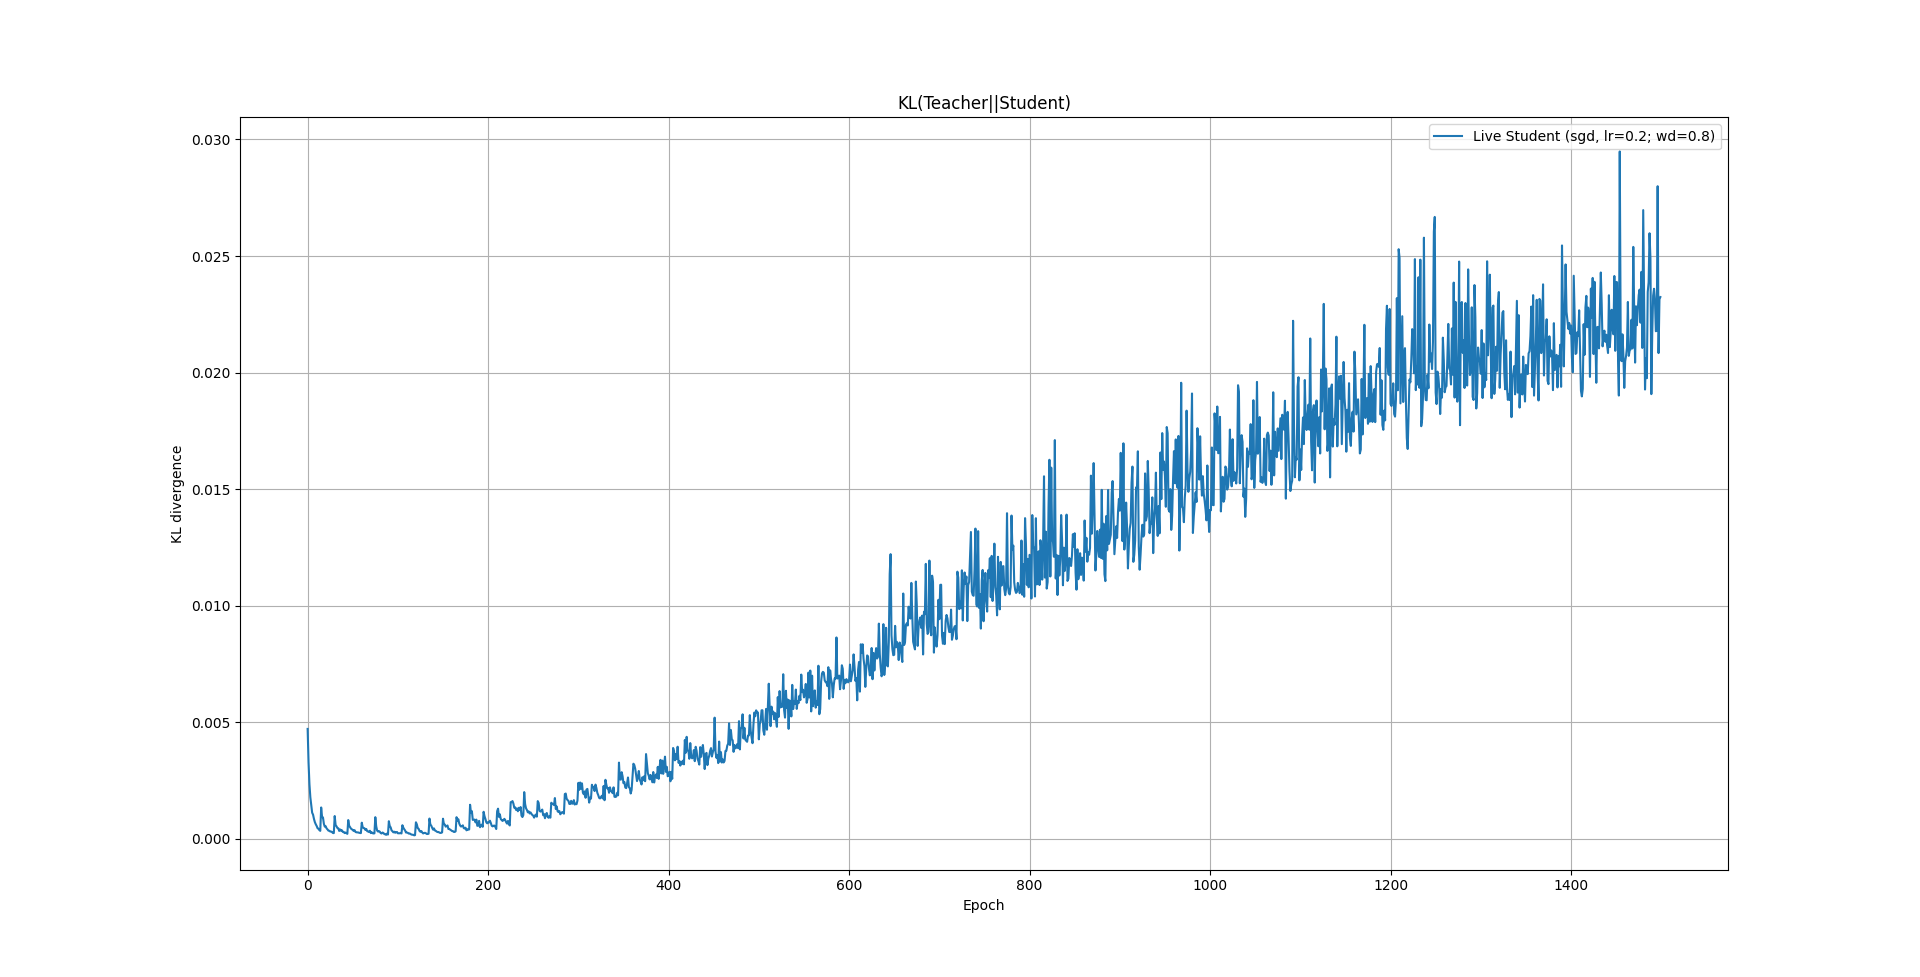
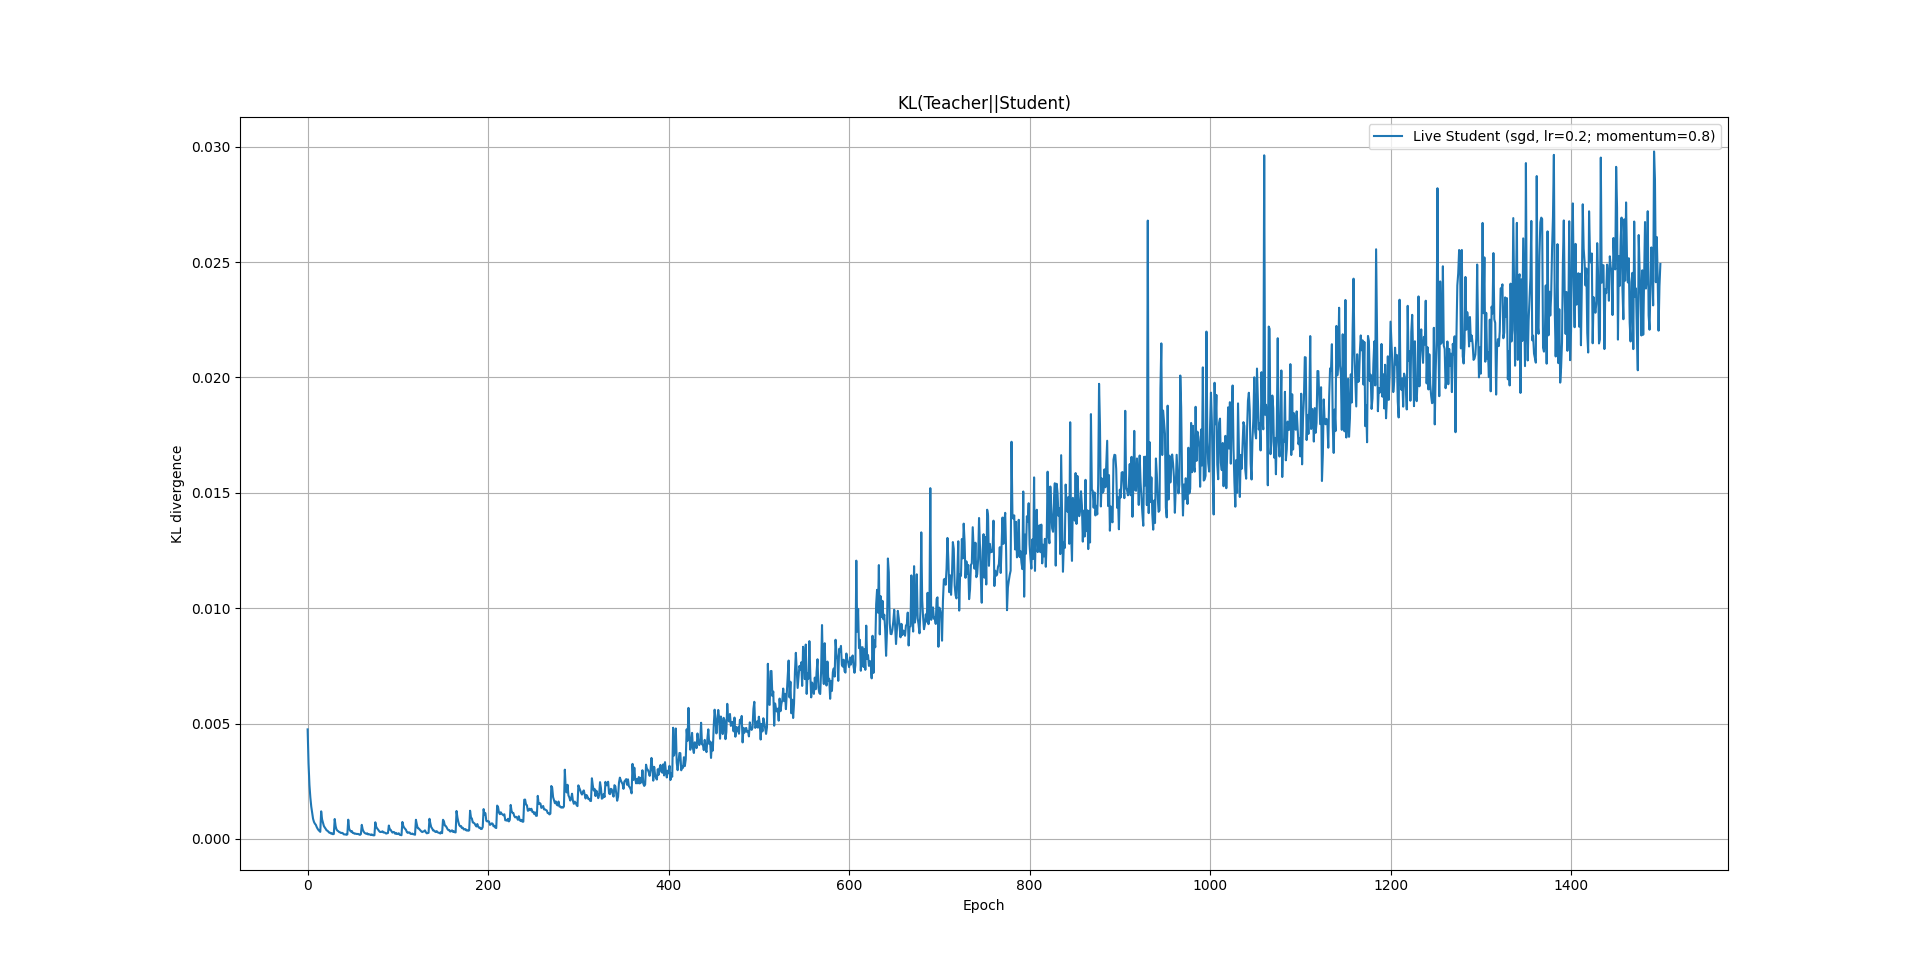
new graphs

diff --git a/plasticity/sgd_good_teacher.py b/plasticity/sgd_good_teacher.py
@@ -7,7 +7,7 @@ import matplotlib.pyplot as plt
 import loader
 import presets
 from model import *
-from model import _gen_loss_function
+from model import gen_loss_function
 
 # DO NOT CHANGE TEACHER. I TUNED FOR THE BEST POSSIBLE TEACHER (Alessandro Farcaş)
 # adamw lr: 0.0005; wd: 0.0001; bs: 125
@@ -33,7 +33,7 @@ if __name__ == '__main__':
     model_teacher = presets.Resnet1_mnist(models_seeds)
     optimizer_teacher = optax.adamw(learning_rate=teacher_lr, weight_decay=teacher_wd)
     optimizer_teacher_state = optimizer_teacher.init(model_teacher.params)
-    loss_fn_teacher = _gen_loss_function(model_teacher.forward, crossentropy_cost)
+    loss_fn_teacher = gen_loss_function(model_teacher.forward, crossentropy_cost)
 
     # set up interactive plot
     plt.ion()
@@ -41,11 +41,11 @@ if __name__ == '__main__':
     fig, ax_kldiv = plt.subplots()
 
     line_acc_teach, = ax_accuracy.plot([], label="Teacher (adamw, lr=5e-4; wd=1e-4)")
-    line_acc_student_live, = ax_accuracy.plot([], label="Live Student (sgd, lr=0.2; mom=0.8)")
+    line_acc_student_live, = ax_accuracy.plot([], label="Live Student (sgd, lr=0.2; momentum=0.8)")
     ax_accuracy.set_xlabel("Epoch")
     ax_accuracy.set_ylabel("Accuracy")
 
-    line_kl_student_live, = ax_kldiv.plot([], label="Live Student (sgd, lr=0.2; wd=0.8)")
+    line_kl_student_live, = ax_kldiv.plot([], label="Live Student (sgd, lr=0.2; momentum=0.8)")
     ax_kldiv.set_xlabel("Epoch")
     ax_kldiv.set_ylabel("KL divergence")
 
@@ -74,7 +74,7 @@ if __name__ == '__main__':
     optimizer_student_live = optax.sgd(learning_rate=0.2, momentum=0.8)
     optimizer_student_live_state = optimizer_student_live.init(model_student_live.params)
 
-    loss_fn_student = _gen_loss_function(model_student_live.forward, crossentropy_cost)
+    loss_fn_student = gen_loss_function(model_student_live.forward, crossentropy_cost)
 
     # Data collection for plot
 
